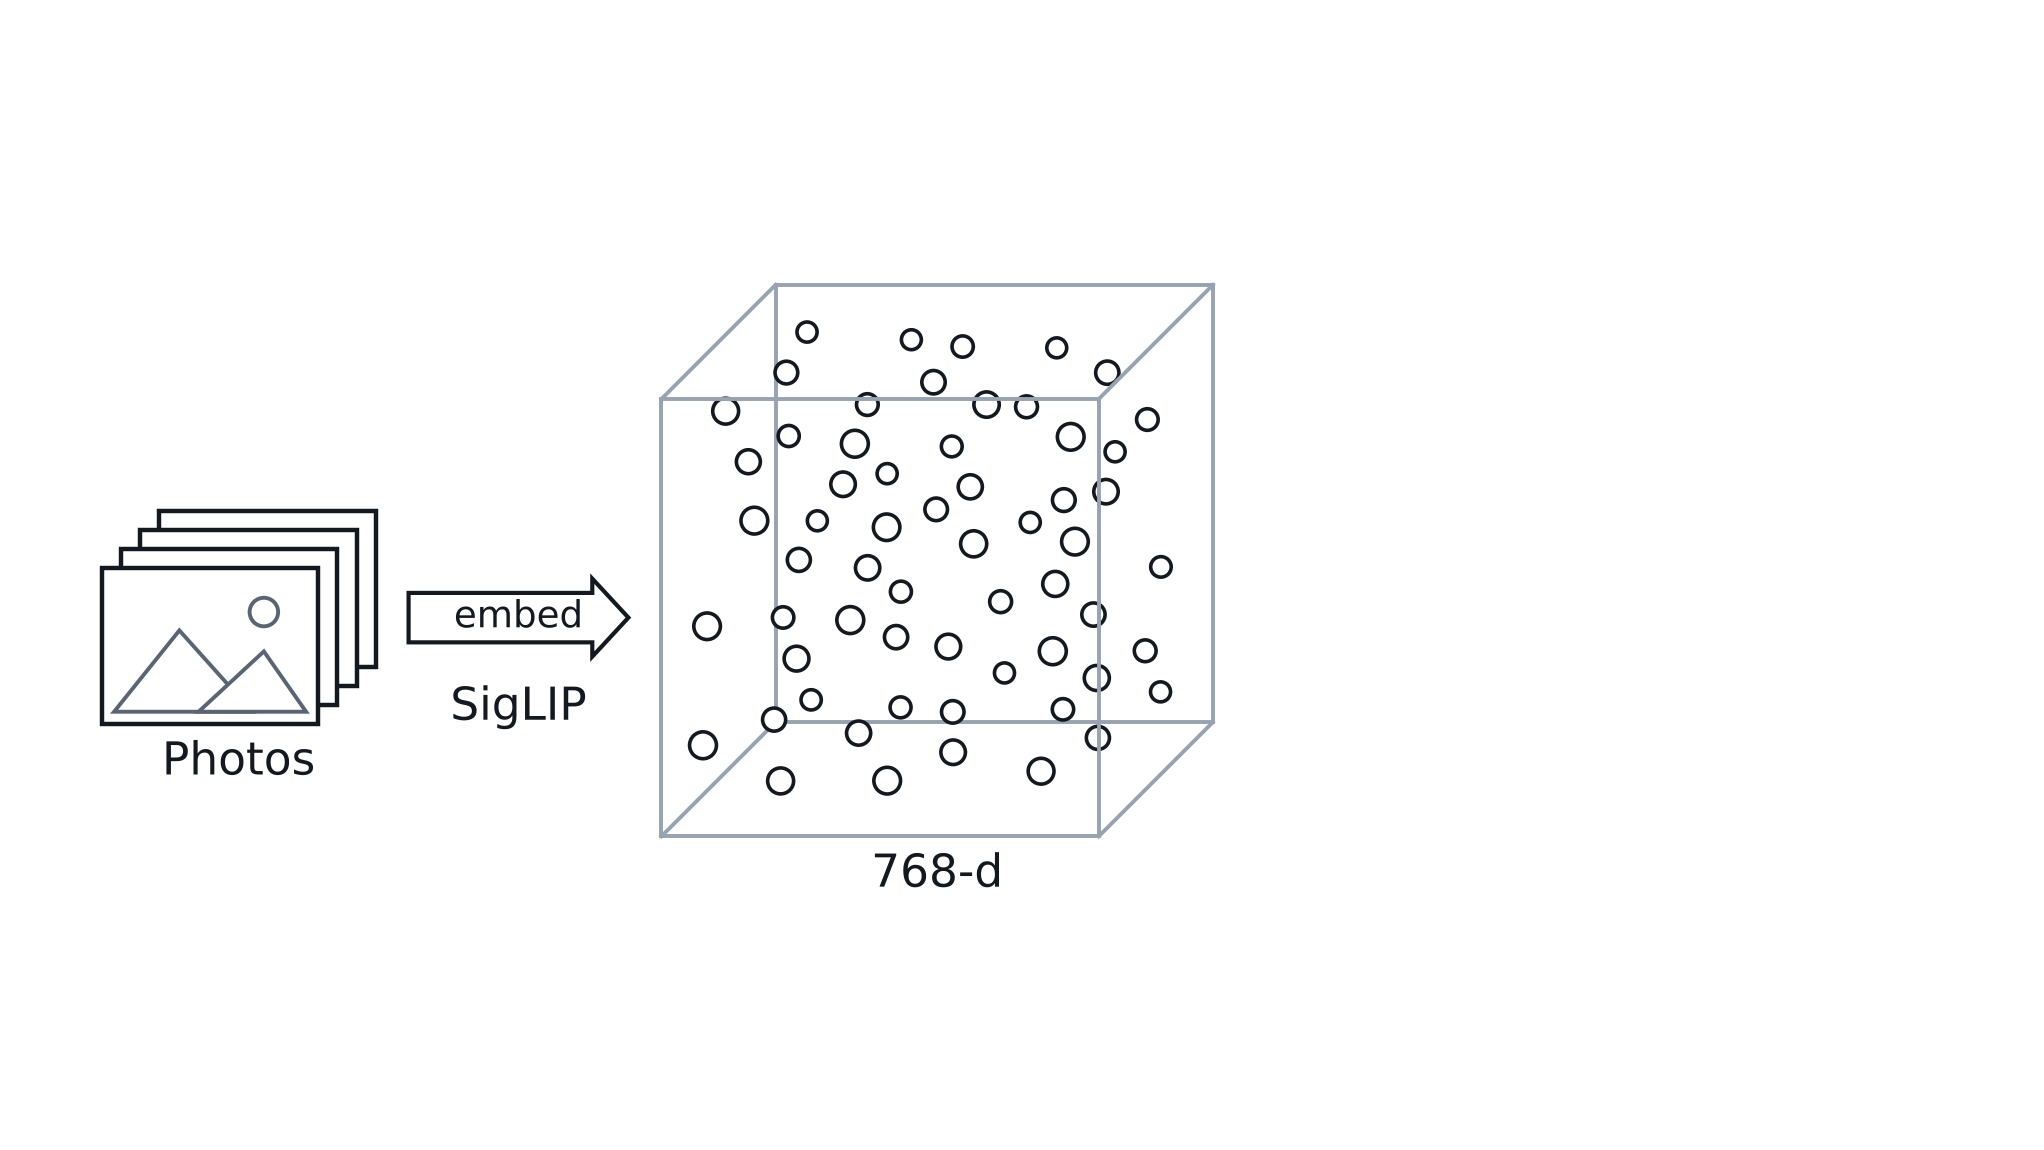
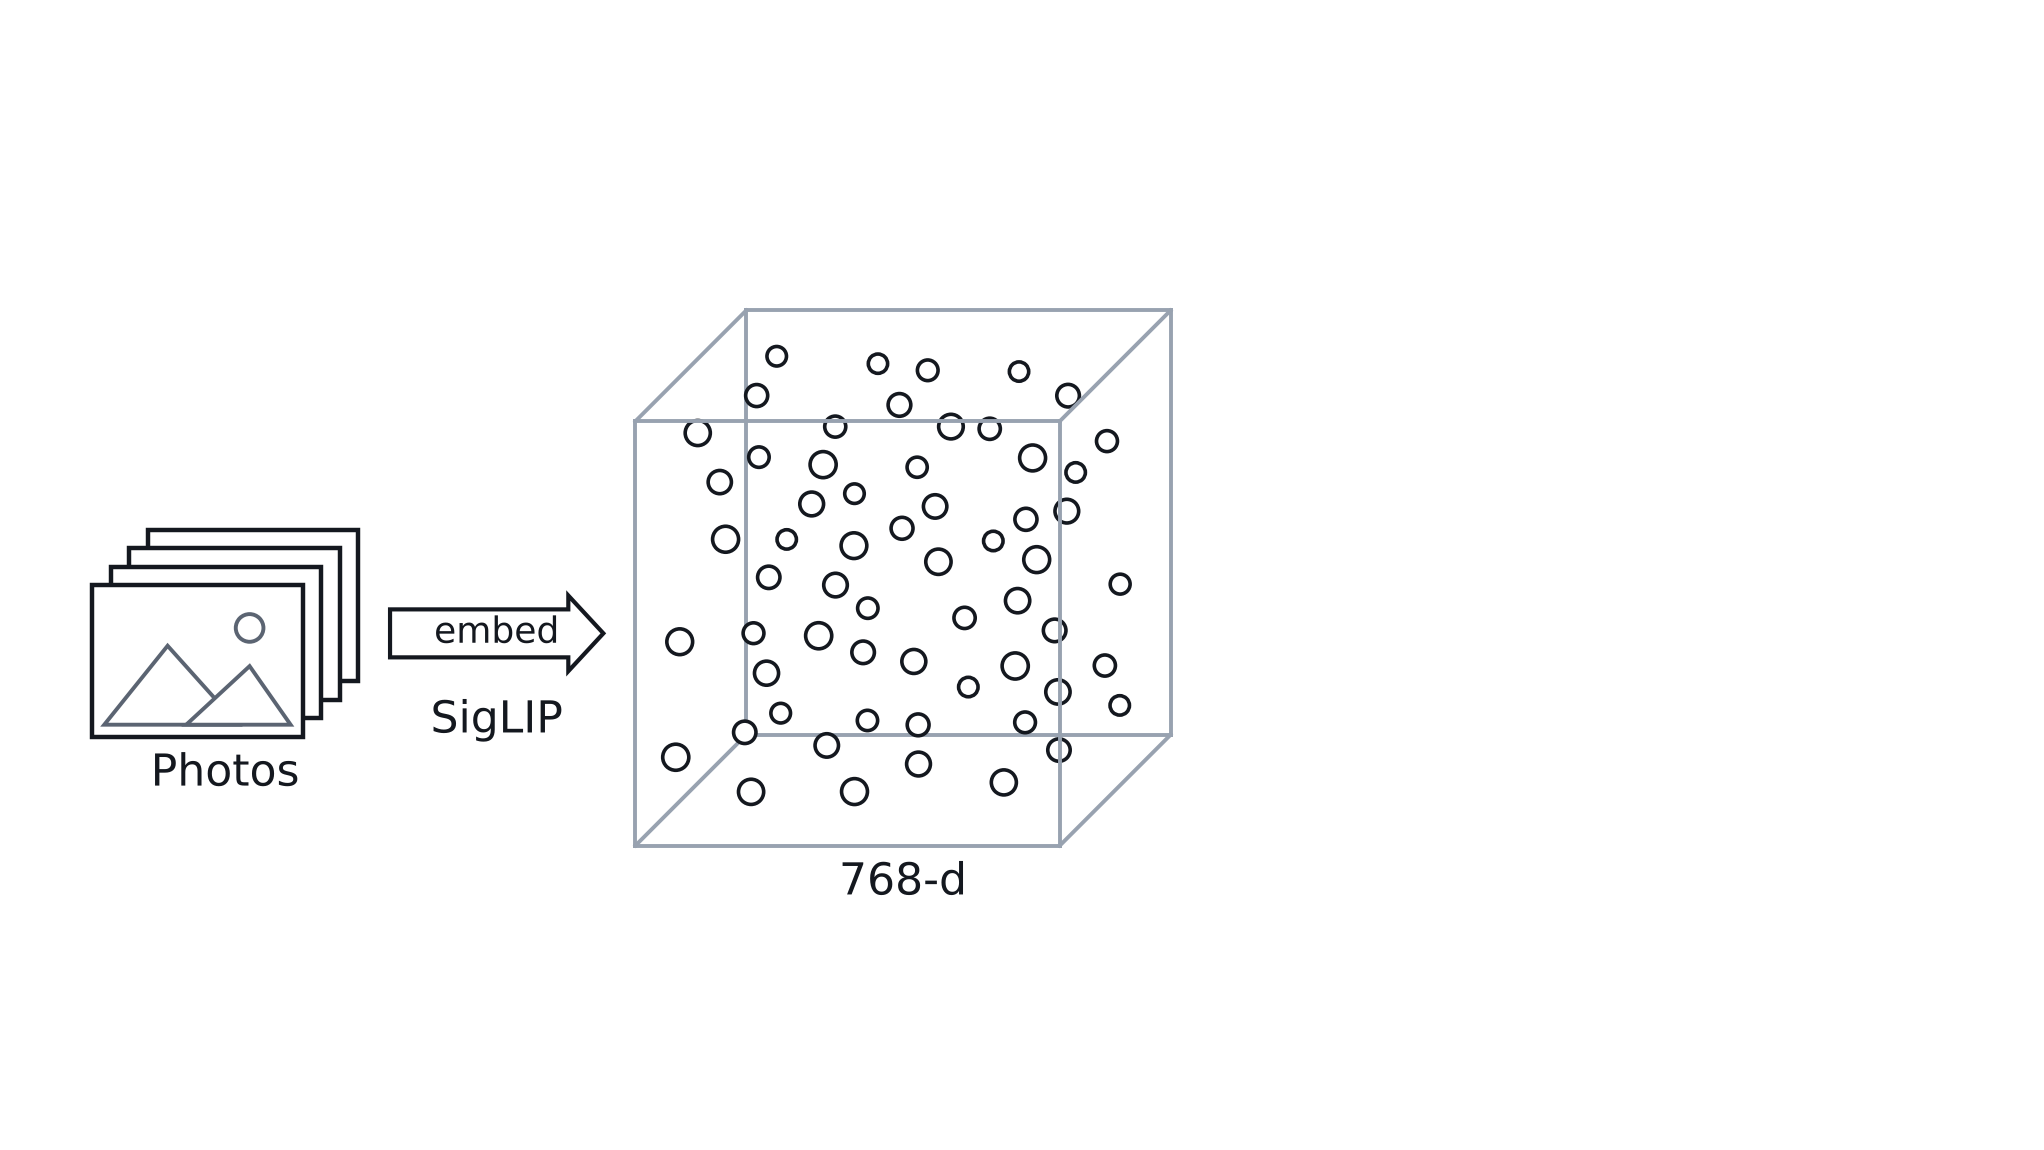
slides: Squaring the Cube turns the whole cube into the whole square (#5132)
The square is the cube's whole drawn extent, front face and depth together,
and stands level with it, so every dot keeps the place and height the cube
gives it. The two corners the box does not reach are opened out by sliding
the dots in their direction away from the middle: 13 of 60 move, by at most
half a dot gap (owner: not the front face with the dots squeezed into it).

Claude-Session: https://claude.ai/code/session_0165HJKSieM6ooCBfgAquuj8

Changed region(s): [[0.0308, 0.2435, 0.6164, 0.7913]]

diff --git a/slides/figs/src/make-intro-figs.py b/slides/figs/src/make-intro-figs.py
@@ -1952,15 +1952,15 @@ def _embed_flow_stage(stage: int) -> plt.Figure:
 #: drawing is that one at `UMAP_SCALE` of its size, type and all: the canvas
 #: spans more units, and every point size is scaled to match (23px for the word
 #: in an arrow, over the type floor).
-UMAP_SCALE = 0.744
+UMAP_SCALE = 0.722
 UMAP_CANVAS = (CANVAS[0] / UMAP_SCALE, CANVAS[1] / UMAP_SCALE)
 #: The row's vertical centre, the left margin, and the flat square's side: the
-#: cube's front face, so the square reads as that face with the depth taken out.
+#: whole cube's, front face and depth together, so the square is the whole cube
+#: flattened and stands level with it, every dot at the height it had (owner,
+#: #5132: not the front face, with the dots squeezed into it).
 UMAP_ROW_Y = 5.6
-UMAP_LEFT = 1.07
-UMAP_SQUARE = CUBE_SIDE
-#: The room the square leaves round its dots.
-UMAP_PAD = 0.06
+UMAP_LEFT = 1.0
+UMAP_SQUARE = CUBE_SIDE + CUBE_DEPTH
 #: The word inside the second arrow: the method's name, which is what the room
 #: will meet again under Browse.
 UMAP_WORD = "UMAP"
@@ -1974,22 +1974,54 @@ def _umap_arrow_len(label: str) -> float:
     return width / (UNIT_PT * UMAP_SCALE) + 2 * FLOW_HEAD_L
 
 
-def _umap_flat() -> np.ndarray:
-    """The cube's dots, flattened straight: each where the cube drawing puts it, fitted to a unit square.
+def _ray_exit(centre: np.ndarray, way: np.ndarray, corners: list[tuple[float, float]]) -> float:
+    """How far along *way* from *centre* the ray leaves the convex polygon *corners*."""
+    exits = []
+    for a, b in zip(corners, corners[1:] + corners[:1], strict=True):
+        a, edge = np.asarray(a), np.asarray(b) - np.asarray(a)
+        det = way[0] * -edge[1] + edge[0] * way[1]
+        if abs(det) < 1e-12:
+            continue
+        rel = a - centre
+        t = (rel[0] * -edge[1] + edge[0] * rel[1]) / det
+        along = (way[0] * rel[1] - way[1] * rel[0]) / det
+        if t > 1e-9 and -1e-9 <= along <= 1 + 1e-9:
+            exits.append(t)
+    return min(exits)
 
-    The square is the cube squashed flat along the line of sight, so its dots
-    sit in the same pattern the cube shows and the room sees at a glance where
-    they came from (owner, #5132). A real UMAP keeps neighbours rather than a
-    view, and can move things; this paints the picture rather than the method.
-    The cube's dots are spaced on their projection (`FLOW_APART`), so the
-    flattened ones cannot touch either; the assertion keeps that true.
+
+def _umap_flat() -> np.ndarray:
+    """The cube's dots, the whole cube turned into the whole square, each moved as little as it can be.
+
+    The cube draws as a hexagon: the square of its extent less two corners,
+    top left and bottom right, that the box does not reach. So the square keeps
+    every dot where the cube drawing puts it and opens those two corners out:
+    each dot slides away from the middle by however much the square reaches
+    past the hexagon in its direction. A dot whose direction meets a side the
+    two share does not move at all; the most any moves is toward a missing
+    corner. The room sees the same pattern at the same heights, and where it
+    came from (owner, #5132). A real UMAP keeps neighbours rather than a view,
+    and can move things further; this paints the picture rather than the method.
     """
-    flat = np.array([_cube_project(p) for p in _flow_field_3d()])
-    flat = (flat - flat.min(axis=0)) / (flat.max(axis=0) - flat.min(axis=0))
-    flat = UMAP_PAD + flat * (1 - 2 * UMAP_PAD)
-    gaps = [np.hypot(*(flat[i] - flat[j])) for i in range(len(flat)) for j in range(i + 1, len(flat))]
+    side, depth = CUBE_SIDE, CUBE_DEPTH
+    whole = side + depth
+    hexagon = [(0.0, 0.0), (side, 0.0), (whole, depth), (whole, whole), (depth, whole), (0.0, side)]
+    square = [(0.0, 0.0), (whole, 0.0), (whole, whole), (0.0, whole)]
+    centre = np.array([whole / 2, whole / 2])
+    flat = []
+    for point in _flow_field_3d():
+        q = _cube_project(point) - centre
+        reach = float(np.hypot(*q))
+        if reach < 1e-12:
+            flat.append(centre)
+            continue
+        way = q / reach
+        flat.append(centre + q * _ray_exit(centre, way, square) / _ray_exit(centre, way, hexagon))
+    flat = np.array(flat)
     radius = FLOW_R * (1.0 - FLOW_DEPTH_SHRINK * 0.5)
-    assert min(gaps) * UMAP_SQUARE > 2 * radius + 0.02, "two flattened dots touch"
+    gaps = [np.hypot(*(flat[i] - flat[j])) for i in range(len(flat)) for j in range(i + 1, len(flat))]
+    assert min(gaps) > 2 * radius + 0.02, "two flattened dots touch"
+    assert flat.min() > radius and flat.max() < whole - radius, "a flattened dot crosses the square's edge"
     return flat
 
 
@@ -1997,8 +2029,8 @@ def umap_flow_fig() -> None:
     """Photographs into the cube, as Embed-time Stories drew them, and then UMAP out of it, into a square.
 
     Two pages: the cube as Embed-time Stories' second page left it; then the
-    second arrow and the square, the same sixty dots squashed flat
-    (`_umap_flat`).
+    second arrow and the square, the whole cube flattened, the same sixty dots
+    at the same heights (`_umap_flat`).
     """
     for stage in range(1, UMAP_STAGES):
         save(_umap_flow_stage(stage), OUT, f"umap-flow.build{stage}.webp", column=FULL_BLEED, tight=False)
@@ -2050,13 +2082,13 @@ def _umap_flow_stage(stage: int) -> plt.Figure:
 
     if stage >= 2:
         arrow(umap_x0, umap_len, UMAP_WORD)
-        square_y = y - UMAP_SQUARE / 2
+        square_y = cube_y
         ax.add_patch(plt.Rectangle((square_x, square_y), UMAP_SQUARE, UMAP_SQUARE, facecolor="none", edgecolor=WIRE,
                                    linewidth=1.4, zorder=2))  # fmt: skip
         # Every dot at the size of one at the cube's mid-depth: the square has no depth left to shrink them by.
         radius = FLOW_R * (1.0 - FLOW_DEPTH_SHRINK * 0.5)
         for u, v in _umap_flat():
-            _flow_dot(ax, square_x + u * UMAP_SQUARE, square_y + v * UMAP_SQUARE, radius, 5)
+            _flow_dot(ax, square_x + u, square_y + v, radius, 5)
         name(square_x + UMAP_SQUARE / 2, square_y, "2-d")
     return fig
 
